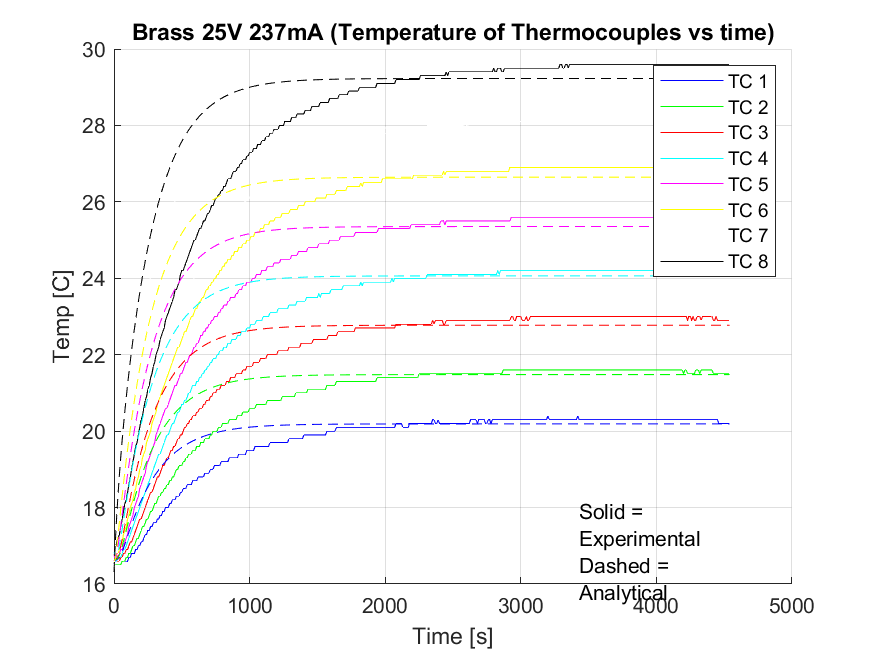
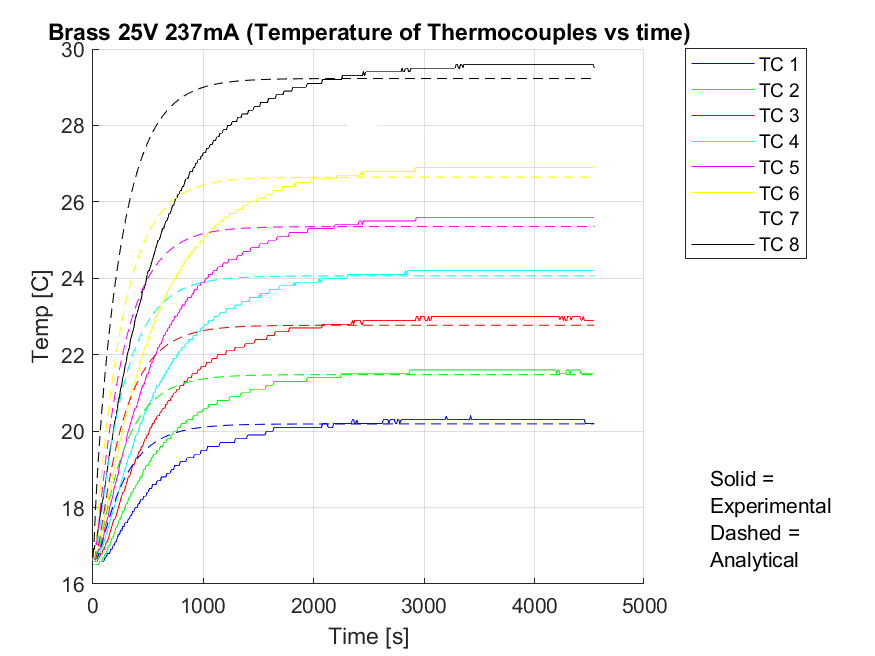
updated to more summations, 10

diff --git a/Part2main.m b/Part2main.m
@@ -9,7 +9,7 @@ colors = ['b','g','r','c','m','y','w','k']; %used for plotting later on
 cases = 5; % number of tests conducted
 V = [25,30,25,30,22]; %test voltages
 I = [0.24,0.29,0.237,0.285,0.203]; % test current
-
+summation_number = 10; %number of summations in the analytical solution
 %% thermocouple location vector
 x1 = 0.034925; % location of first thermocouple (m)
 dx = 0.0127; %spacing between thermocouples
@@ -76,11 +76,11 @@ for i = 1:length(files)
    
 end
 
-%% CALC AND PLOT ANALYTICAL SOLUTION FOR EACH TEST CASE
+%% CALCULATE AND PLOT ANALYTICAL SOLUTION FOR EACH TEST CASE
 cd ..
 cd ..
 for z=1:cases % loops through all test cases
-u = u_singlecase(T0,H,alpha,L,z,x,t(z).time); %calculates u for a single test case
+u = u_singlecase(T0,H,alpha,L,z,x,t(z).time,summation_number); %calculates u for a single test case
 U(z).u = u; % structure containing all analytical data so it isnt overwritten
 %Plot analytical for each case over the existing experimental data plots
 figure(z);
@@ -89,8 +89,8 @@ figure(z);
         hold on
     end
 % creating a legend that is easy to understand
-legend('TC 1','TC 2','TC 3','TC 4','TC 5','TC 6','TC 7','TC 8')
-annotation('textbox',[0.65 0.15 0.2 0.1], ...
+legend('TC 1','TC 2','TC 3','TC 4','TC 5','TC 6','TC 7','TC 8','Location','northeastoutside')
+annotation('textbox',[0.8 0.2 0.2 0.1], ...
     'String',{'Solid = Experimental','Dashed = Analytical'}, ...
     'EdgeColor','none');
 
